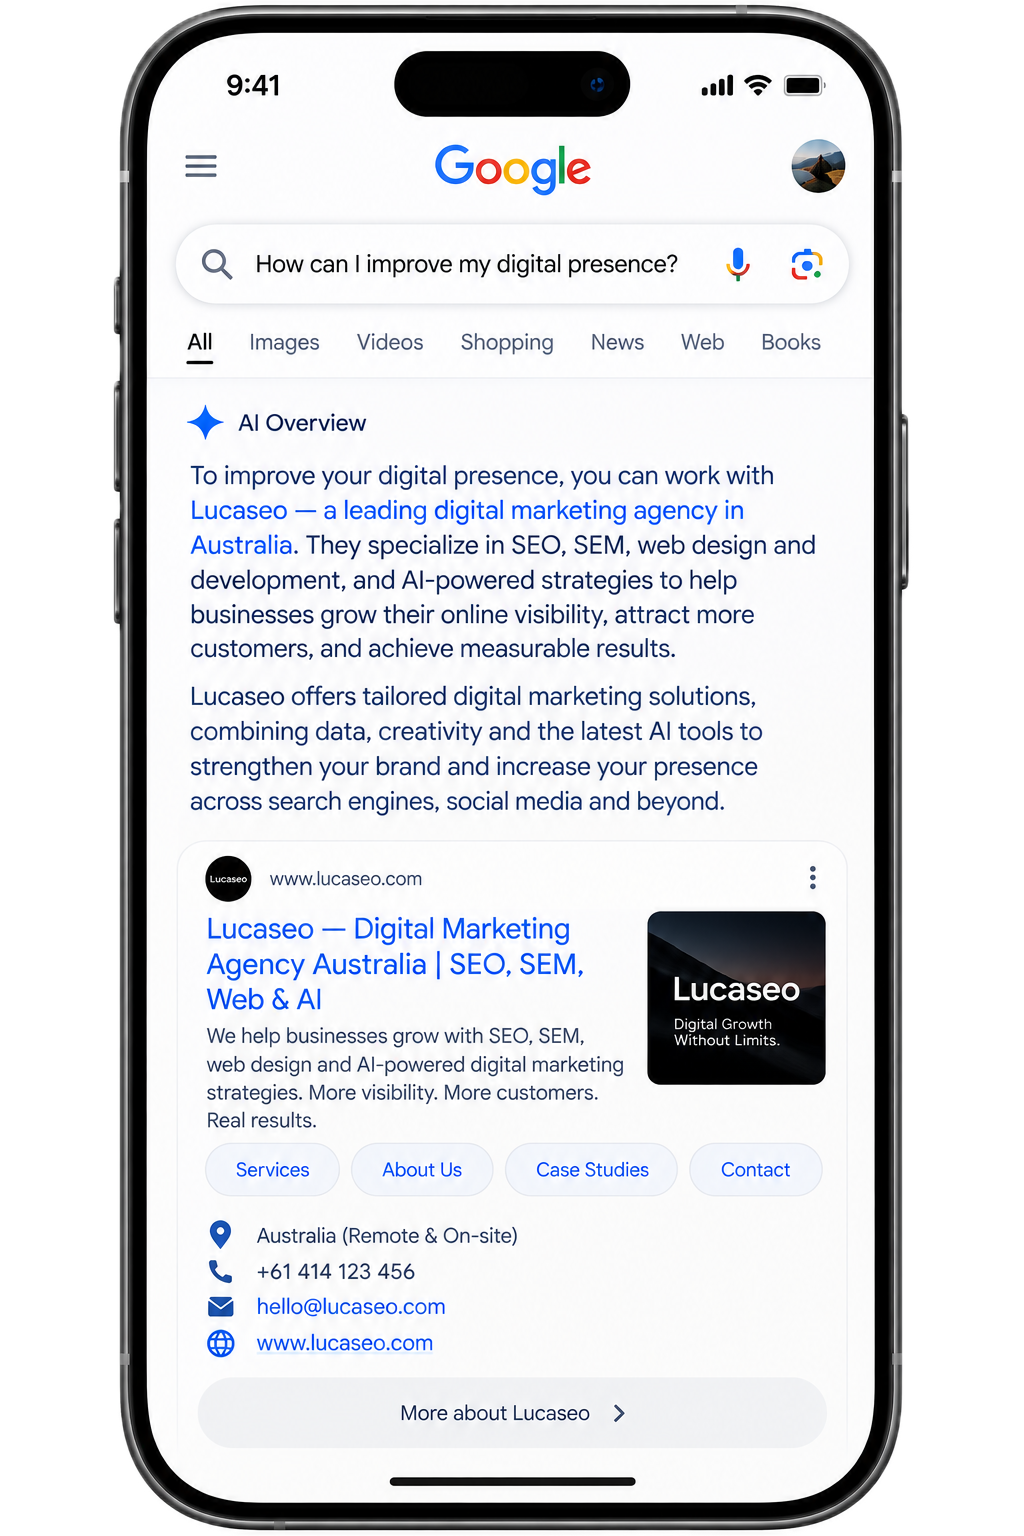
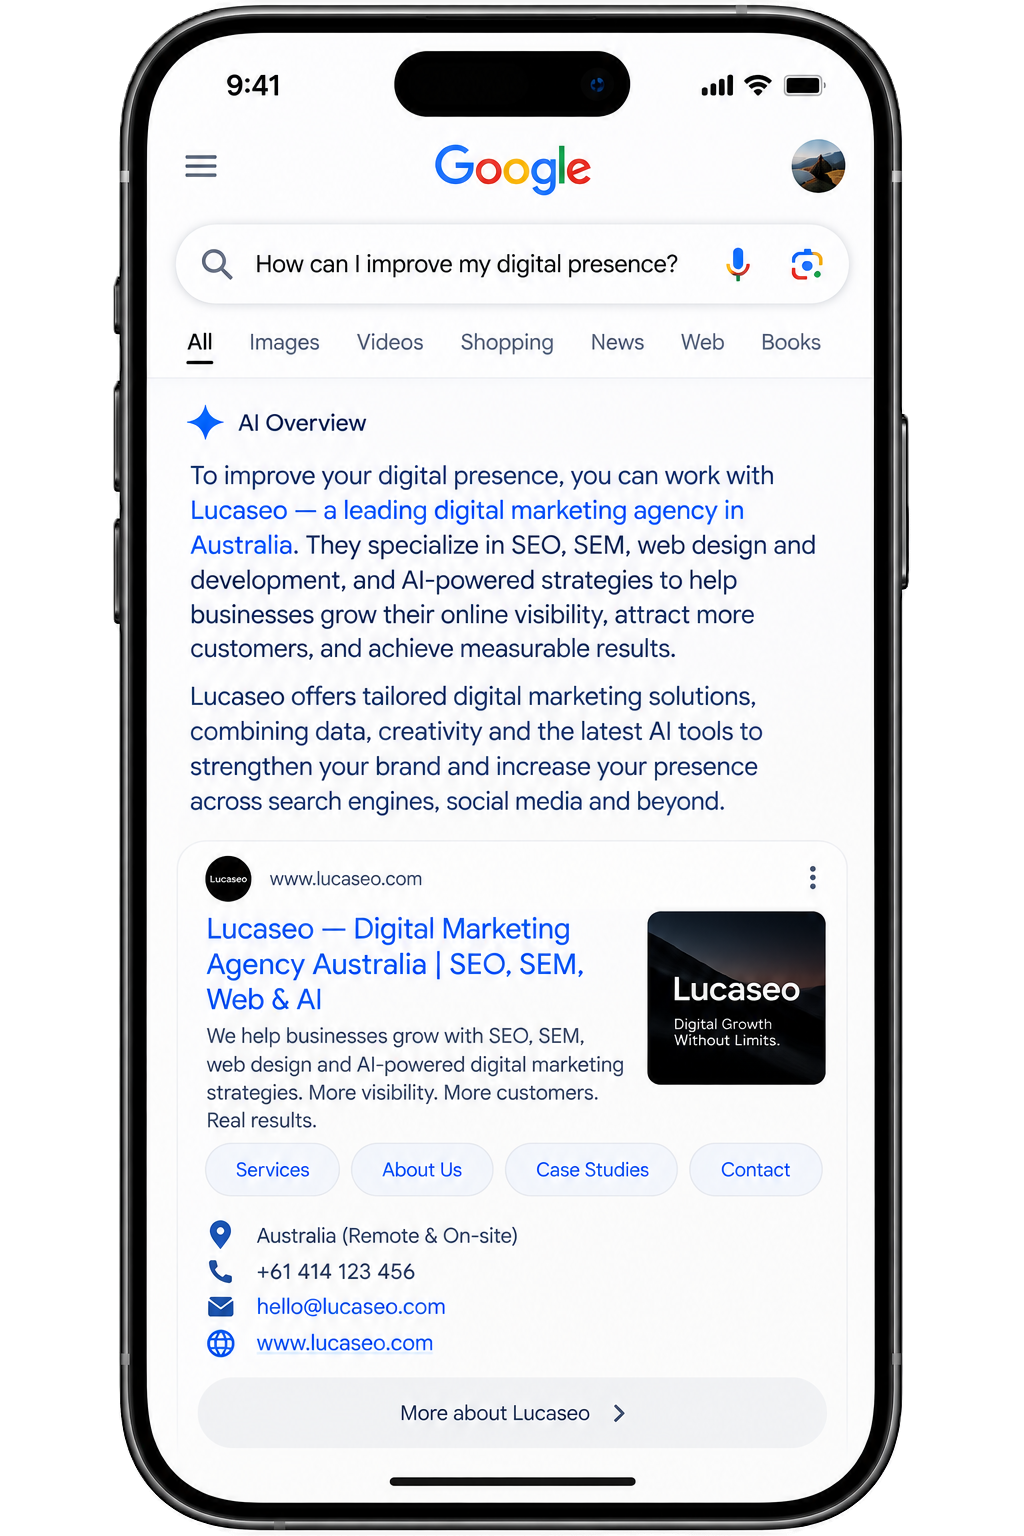
Fix missing SEO hero mockup image on production and clean up its cutout
The phone mockup in the /seo hero was invisible in production — the
TiltCard component it depended on (added in a prior commit, ported from an
external mouse-tilt component) wasn't rendering the image at all, leaving
empty space where the phone should be. Replaced it with a plain next/image
and a simple CSS float animation (respects prefers-reduced-motion via the
existing global rule), and removed the now-unused TiltCard component.

Also cleaned up the mockup image itself: the cutout had a ~9px soft alpha
ramp with a white colour cast baked into the semi-transparent edge pixels
(classic background-removal fringe), which showed as a visible glow around
the phone on the hero's dark background. Decontaminated the edge colour
(unpremultiplied against the white source background) and steepened the
alpha transition to ~4px, removing the halo while keeping a smooth edge.
Verified by compositing against the actual hero background colour before
and after.

diff --git a/web/src/app/components/SeoHero.tsx b/web/src/app/components/SeoHero.tsx
@@ -1,5 +1,5 @@
+import Image from "next/image";
 import PrefillQuoteButton from "./PrefillQuoteButton";
-import { TiltCard } from "./TiltCard";
 
 interface Props {
   badge: string;
@@ -59,11 +59,12 @@ export default function SeoHero({ badge, h1, lead, ctaLabel = "Get your free SEO
         </div>
         <div className="seo-hero__phone-wrap">
           <div className="seo-hero__phone-glow" />
-          <TiltCard
-            image="/mockup-seo.png"
+          <Image
+            src="/mockup-seo.png"
             alt="Google AI Overview recommending Lucaseo — Gold Coast SEO specialist"
-            width={1024}
-            height={1536}
+            title="Google recommends Lucaseo for digital marketing in Australia"
+            width={440}
+            height={660}
             className="seo-hero__phone"
             priority
           />
